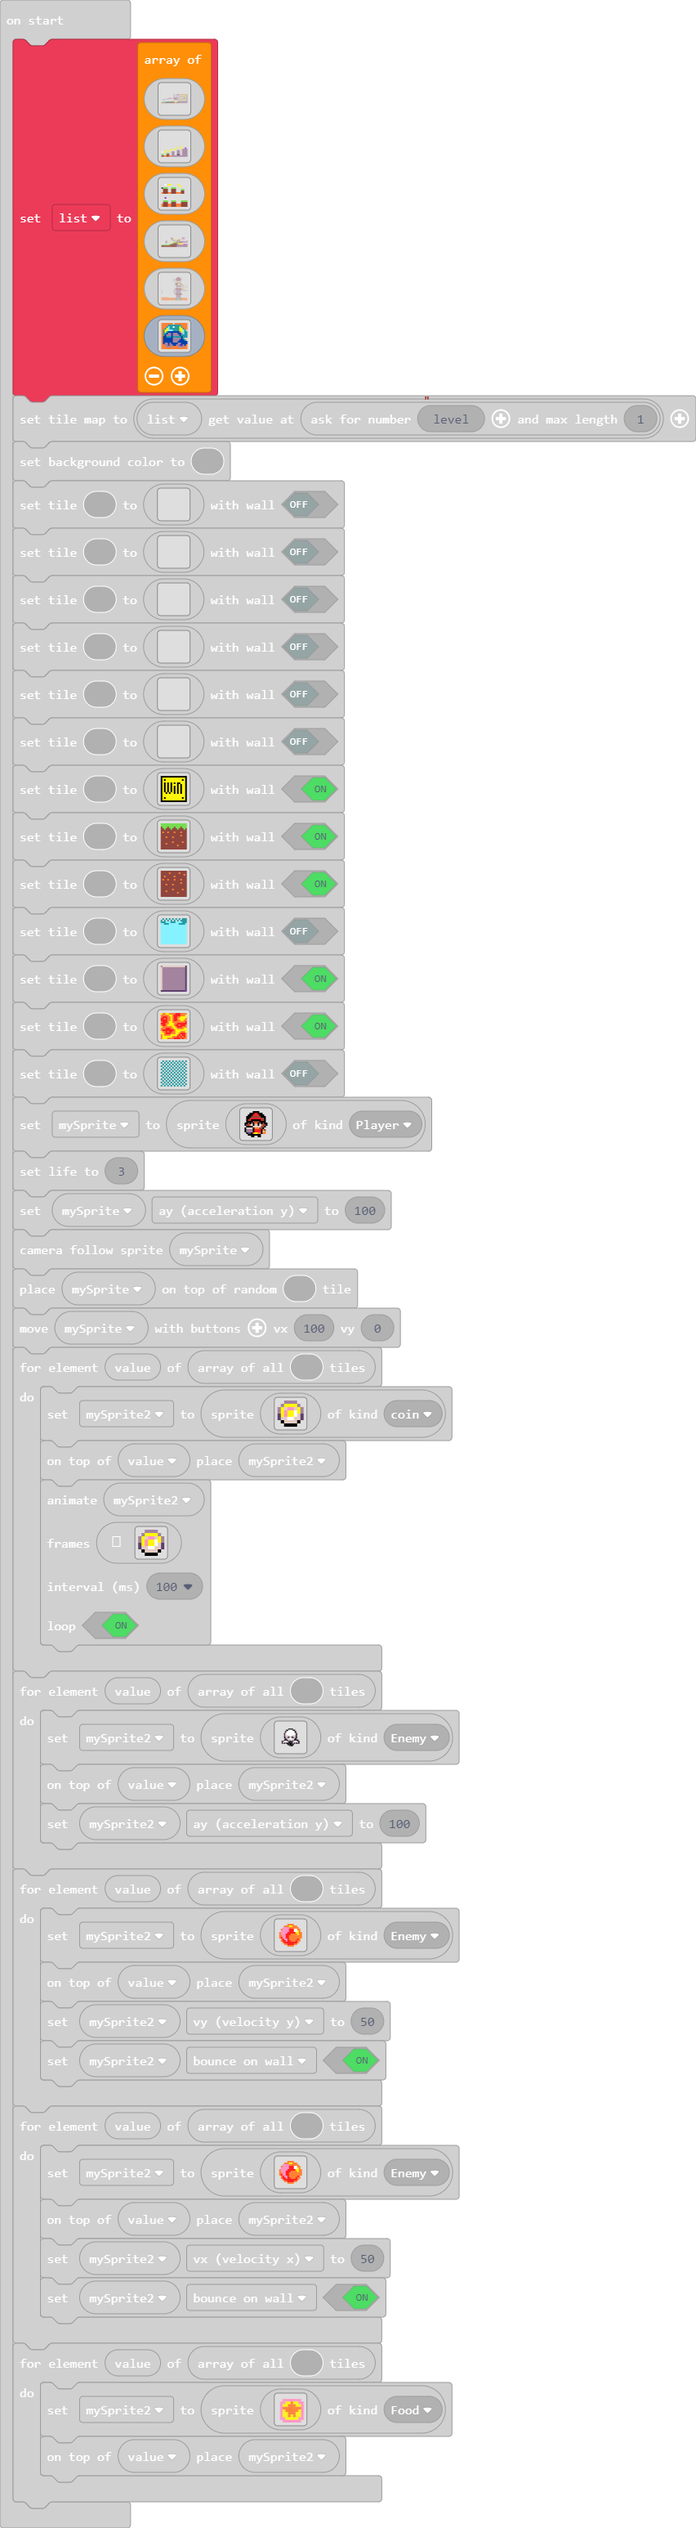
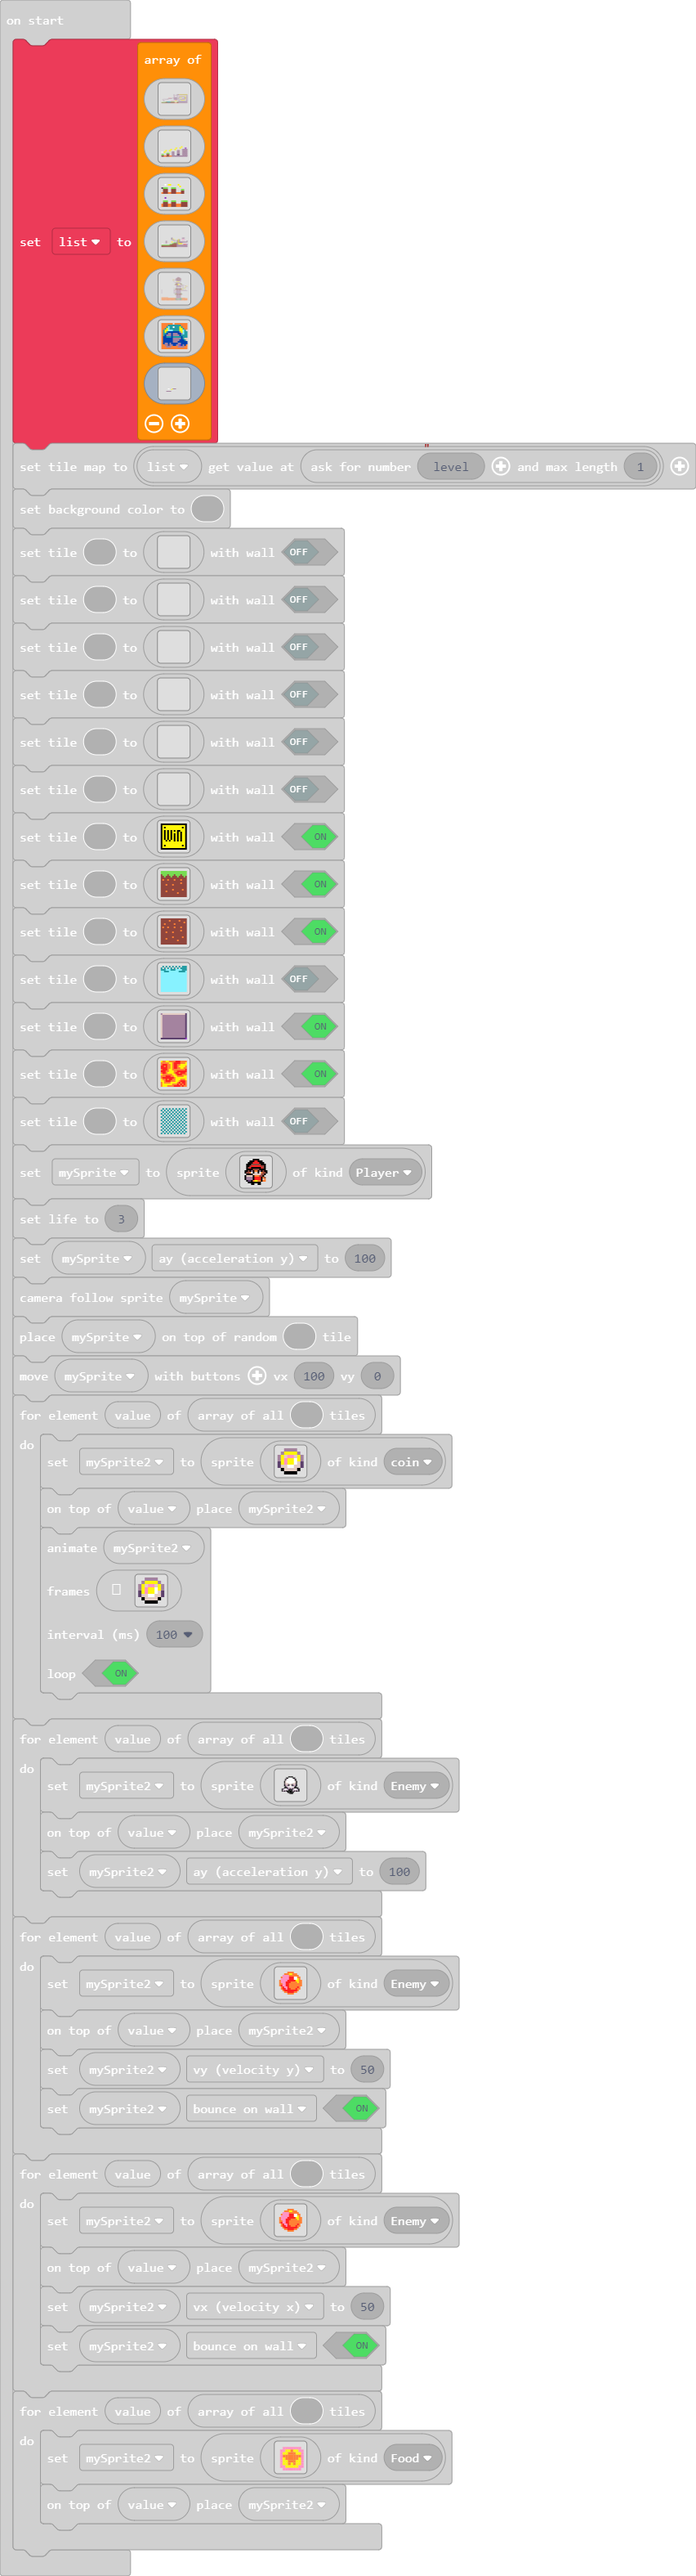
Update main.blocks, main.ts

Changed region(s): [[0.0, 0.0, 1.0, 0.9935], [0.0915, 0.0621, 0.1221, 0.0931]]

diff --git a/main.ts b/main.ts
@@ -256,6 +256,39 @@ b . . . . . . . . . . . . . . . . . . . . . . . . . . . . . . . . b b b b b 7 e 
 4 4 b b c b b 8 8 b b a 8 b 8 4 
 4 4 4 b b b 4 4 4 4 b b b b 4 4 
 4 4 4 4 4 4 4 4 4 4 4 4 4 4 4 4 
+`, img`
+. . . . . . . . . . . . . . . . . . . . . . . . . . . . . . . . 
+. . . . . . . . . . . . . . . . . . . . . . . . . . . . . . . . 
+. . . . . . . . . . . . . . . . . . . . . . . . . . . . . . . . 
+. . . . . . . . . . . . . . . . . . . . . . . . . . . . . . . . 
+. . . . . . . . . . . . . . . . . . . . . . . . . . . . . . . . 
+. . . . . . . . . . . . . . . . . . . . . . . . . . . . . . . . 
+. . . . . . . . . . . . . . . . . . . . . . . . . . . . . . . . 
+. . . . . . . . . . . . . . . . . . . . . . . . . . . . . . . . 
+. . . . . . . . . . . . . . . . . . . . . . . . . . . . . . . . 
+. . . . . . . . . . . . . . . . . . . . . . . . . . . . . . . . 
+. . . . . . . . . . . . . . . . . . . . . . . . . . . . . . . . 
+. . . . . . . . . . . . . . . . . . . . . . . . . . . . . . . . 
+. . . . . . . . . . . . . . . . . . . . . . . . . . . . . . . . 
+. . . . . . . . . . . . . . . . . . . . . . . . . . . . . . . . 
+. . . . . . . . . . . . . . . . . . . . . . . . . . . . . . . . 
+. . . . . . . . . . . . . . . . . . . . . . . . . . . . . . . . 
+. . . . . . . . . . . . . . . . . . . . . . . . . . . . . . . . 
+. . . . . . . . . . . . . . . . . . . . . . . . . . . . . . . . 
+. . . . . . . . . . . . . . . . . . . . . . . . . . . . . . . . 
+. . . . . . . . . . . . . . . . . . . . . . . . . . . . . . . . 
+. . . . . . . . . . . . . . . . . . . . . . . . . . . . . . . . 
+. . . . . . . . . . . . . . . . . . . . . . . . . . . . . . . . 
+. . . . . . . . 1 1 . . . 5 b b b b . . . . . . . . . . . . . . 
+. . . . . . . . . . . . 5 . . . . . . . . . . . . . . . . . . . 
+. . . . . . . . . . . . . . . . . . . . . . . . . . . . . . . . 
+. . . . . . b b b b b b . . . . . . . . . . . . . . . . . . . . 
+. . . . . . . . . . . . . . . . . . . . . . . . . . . . . . . . 
+. . . . . . . . . . . . . . . . . . . . . . . . . . . . . . . . 
+. . . . . . . . . . . . . . . . . . . . . . . . . . . . . . . . 
+. . . . . . . . . . . . . . . . . . . . . . . . . . . . . . . . 
+. . . . . . . . . . . . . . . . . . . . . . . . . . . . . . . . 
+. . . . . . . . . . . . . . . . . . . . . . . . . . . . . . . . 
 `]
 scene.setTileMap(list[game.askForNumber("level", 1)])
 scene.setBackgroundColor(8)
